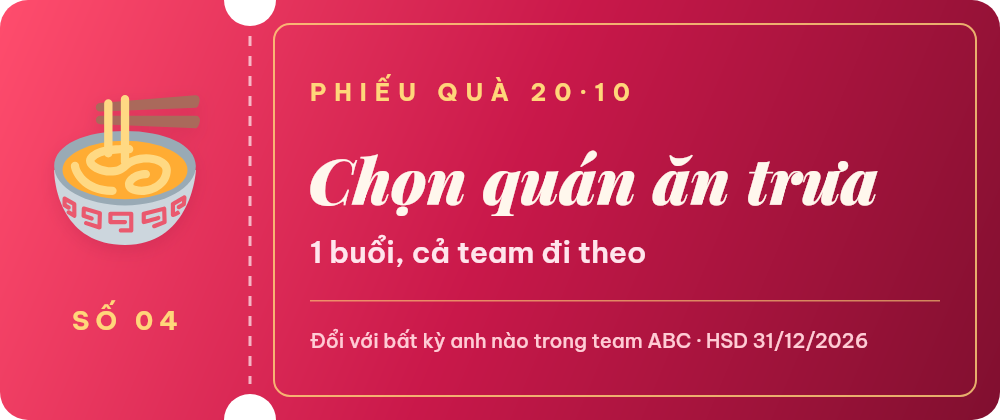
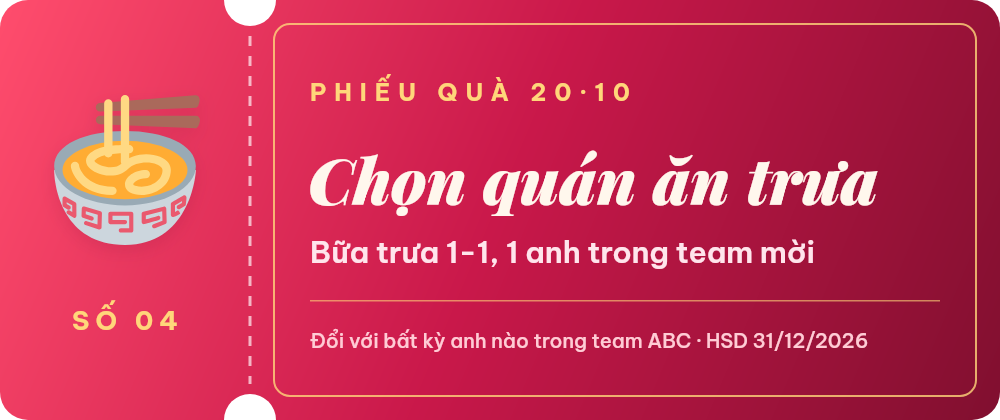
Make the lunch gift voucher a 1-1 lunch treat

Changed region(s): [[0.31, 0.5571, 0.837, 0.65]]

diff --git a/modules/event-invite/texts.js b/modules/event-invite/texts.js
@@ -109,7 +109,7 @@ const WISH_VOUCHERS = [
     { emoji: "🧋", title: "1 ly trà sữa", detail: "Anh em mời, chọn size thoải mái" },
     { emoji: "☕", title: "1 ly cà phê sáng", detail: "Anh em pha / mua tận bàn" },
     { emoji: "🍱", title: "Miễn lấy cơm 1 tuần", detail: "Anh em xách cơm tận nơi" },
-    { emoji: "🍜", title: "Chọn quán ăn trưa", detail: "1 buổi, cả team đi theo" },
+    { emoji: "🍜", title: "Chọn quán ăn trưa", detail: "Bữa trưa 1-1, 1 anh trong team mời" },
     { emoji: "🌹", title: "1 bông hồng", detail: "Trao tận tay, kèm 1 câu khen" },
     { emoji: "🎂", title: "1 phần bánh ngọt", detail: "Giao tận bàn giờ xế chiều" },
 ];
